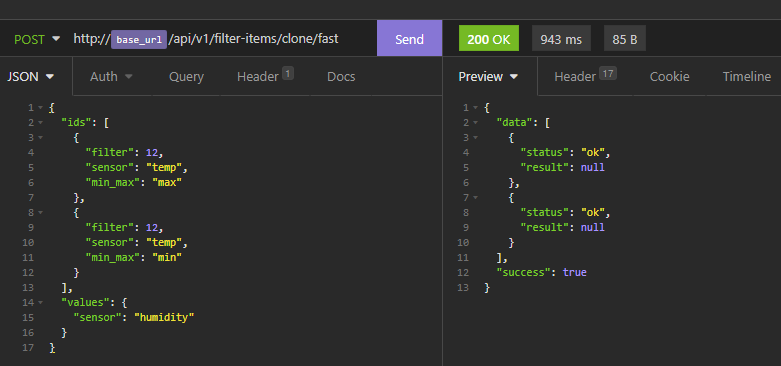
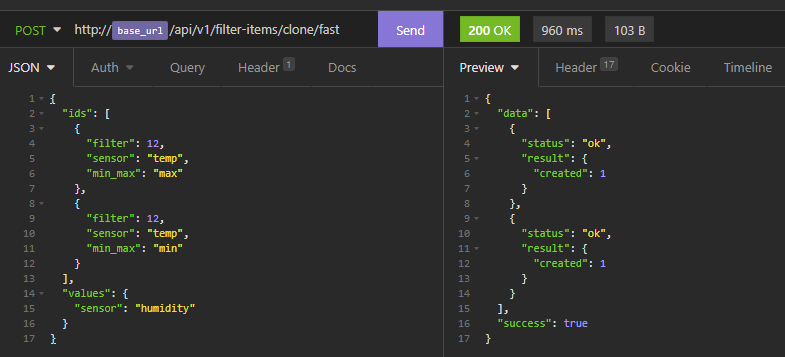
fixed response for clone/fast in filters (items)

diff --git a/src/db/repos/filteritems.ts b/src/db/repos/filteritems.ts
@@ -203,16 +203,36 @@ export class FilterItemsRepository {
       }
     });
 
-    const dbcall = type === "fast" ? this.db.none : this.db.one;
+    const dbcall = type === "fast" ? this.db.result : this.db.one;
     const returning = type === "full" ? "returning *" : type === "id" ? "returning " + this.keys.join(", ") : "";
-    return dbcall(sql.copy, { values: selectFields, select: selectValues, where: whereFields, returning });
+    if (type === "fast") {
+      return dbcall(sql.copy, { values: selectFields, select: selectValues, where: whereFields, returning }, (r: IResult) => ({ created: r.rowCount }));
+    } else {
+      return dbcall(sql.copy, { values: selectFields, select: selectValues, where: whereFields, returning });
+    }
   }
 
-  public clone(type: string, values: any): any {
+  public async clone(type: string, values: any): Promise<any> {
     const result: any[] = [];
     values.ids.forEach((id: any) => {
       result.push(this.cloneItem(type, id, values.values));
     });
     return allSettled(result);
   }
+
+  public async multipleCreate0(type: string, data: any): Promise<any> {
+    const result: any[] = [];
+    data.forEach((values: any) => {
+      result.push(this.add(type, values));
+    });
+    if (type === "xfast") {
+      const results = await allSettled(result);
+      return { created: results.reduce((prev: number, call: any) => (prev + (call.status === "ok" ? call.value.created : 0)), 0) };
+    }
+    else {
+      return allSettled(result);
+      // return Promise.all(result);
+    }
+  }
+  
 }

diff --git a/src/db/repos/filters.ts b/src/db/repos/filters.ts
@@ -187,7 +187,11 @@ export class FiltersRepository {
 
     const dbcall = type === "fast" ? this.db.none : this.db.one;
     const returning = type === "full" ? "returning *" : type === "id" ? "returning " + this.keys.join(", ") : "";
-    return dbcall(sql.copy, { values: selectFields, select: selectValues, where: whereFields, returning });
+    if (type === "fast") {
+      return dbcall(sql.copy, { values: selectFields, select: selectValues, where: whereFields, returning }, (r: IResult) => ({ created: r.rowCount }));
+    } else {
+      return dbcall(sql.copy, { values: selectFields, select: selectValues, where: whereFields, returning });
+    }
   }
 
   public clone(type: string, values: any): any {
